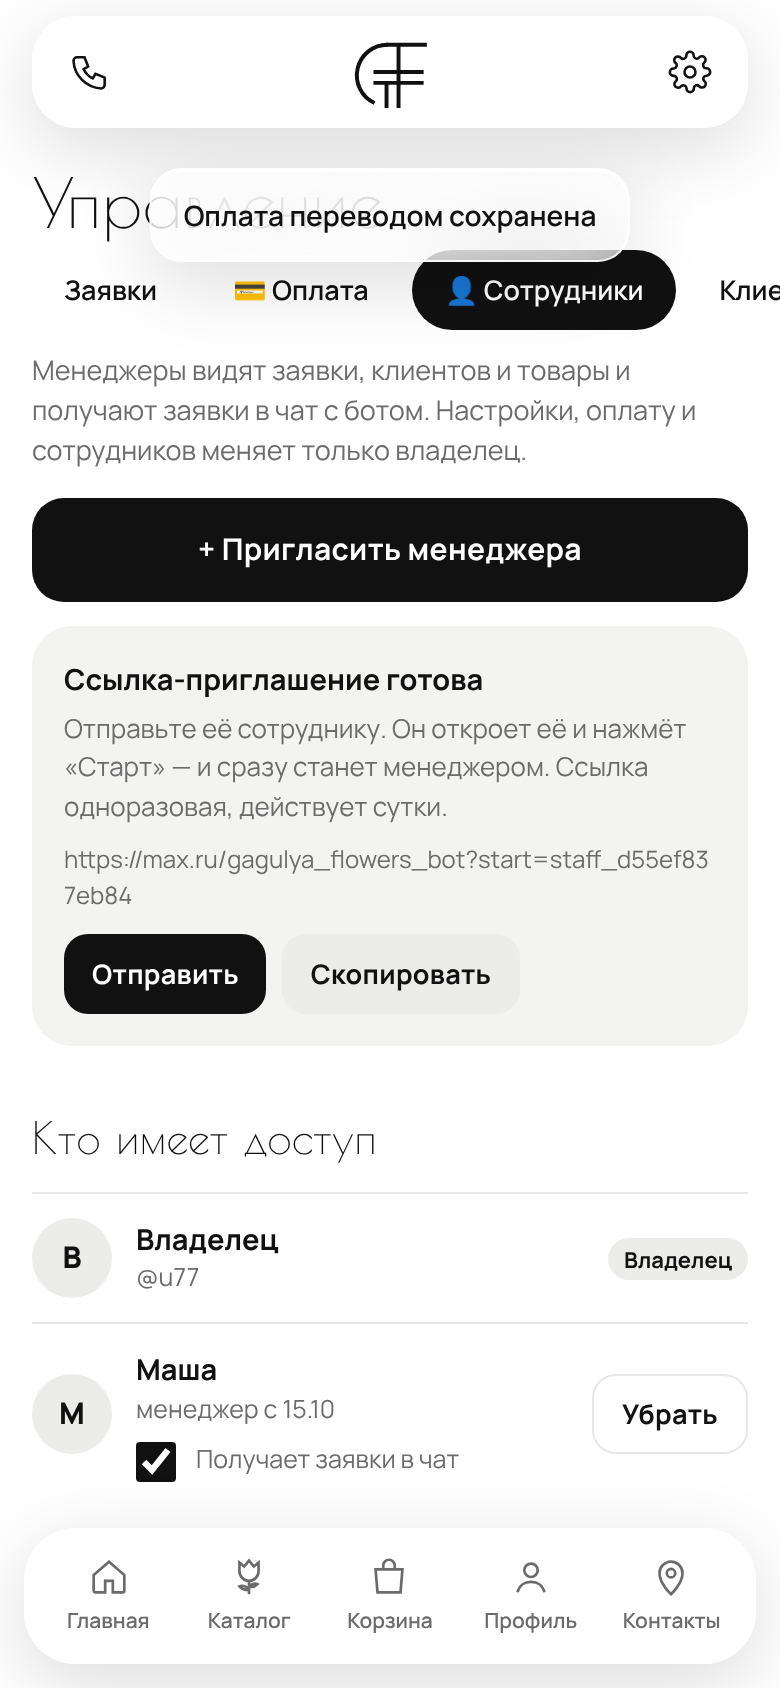
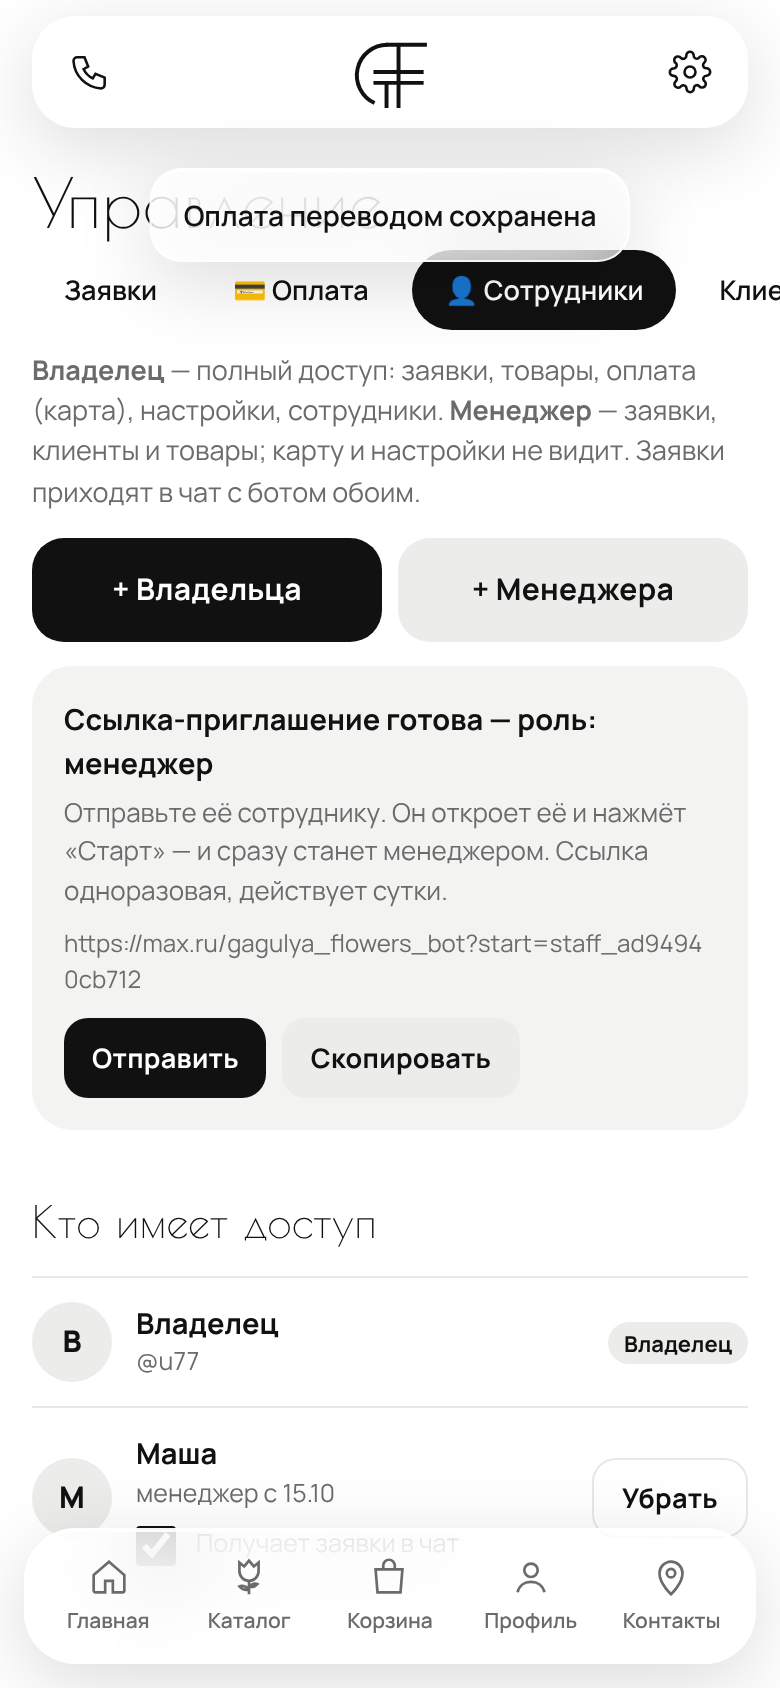
Сотрудники: приглашение с ролью владельца (полный доступ) или менеджера
Claude-Session: https://claude.ai/code/session_013HVBPZtSqSrvDRQkXTFUFM

diff --git a/server/index.js b/server/index.js
@@ -129,11 +129,11 @@ function createApp(opts = {}) {
     return null;
   }
   // Admins: ADMIN_IDS from .env plus the "owner" — the first person who sends /start when nobody is admin yet.
-  const ownerList = () => [...config.adminIds, ...((store.getCatalog().settings.ownerIds) || []).map(Number)];
+  const ownerList = () => [...config.adminIds, ...((store.getCatalog().settings.ownerIds) || []).map(Number), ...(store.getCatalog().settings.staff || []).filter((x) => x.role === "owner").map((x) => Number(x.id))];
   /* Staff: managers invited by the owner with a one-time link (settings.staff). They see orders, customers and the catalog;
      settings, payment details and the staff list stay with the owner. */
   const staffList = () => (store.getCatalog().settings.staff || []);
-  const adminList = () => [...ownerList(), ...staffList().map((x) => Number(x.id))];
+  const adminList = () => [...new Set([...ownerList(), ...staffList().map((x) => Number(x.id))])];
   const isAdmin = (u) => !!u && adminList().includes(Number(u.id));
   const isOwner = (u) => !!u && ownerList().includes(Number(u.id));
   /** A link that opens the bot CHAT with /start <param> (the bot itself must see the invite). */
@@ -151,12 +151,15 @@ function createApp(opts = {}) {
     S.invites = S.invites.filter((x) => x !== inv);
     const name = [from.first_name, from.last_name].filter(Boolean).join(" ") || (from.username ? "@" + from.username : "Сотрудник");
     if (!isAdmin(from)) {
-      S.staff = staffList().concat([{ id: Number(from.id), name, username: from.username || "", role: "manager", notify: true, addedAt: new Date().toISOString() }]);
+      S.staff = staffList().concat([{ id: Number(from.id), name, username: from.username || "", role: inv.role === "owner" ? "owner" : "manager", notify: true, addedAt: new Date().toISOString() }]);
     }
     store.setCatalog(store.getCatalog());
     const esc = (t) => String(t).replace(/[&<>]/g, (c) => ({ "&": "&amp;", "<": "&lt;", ">": "&gt;" }[c]));
-    for (const oid of ownerList()) sendUser(oid, `👤 <b>${esc(name)}</b> принял(а) приглашение и теперь менеджер: видит заявки и получает их в чат.`).catch(() => {});
-    return `\n\n✅ <b>Вы добавлены в сотрудники ${esc(S.brand || "")}.</b> Заявки будут приходить в этот чат, а в приложении появилась шестерёнка — там заявки, клиенты и товары.`;
+    const own = inv.role === "owner";
+    for (const oid of ownerList()) if (String(oid) !== String(from.id)) sendUser(oid, `👤 <b>${esc(name)}</b> принял(а) приглашение и теперь ${own ? "владелец (полный доступ)" : "менеджер: видит заявки и получает их в чат"}.`).catch(() => {});
+    return own
+      ? `\n\n✅ <b>Вы добавлены как владелец ${esc(S.brand || "")}.</b> Заявки будут приходить в этот чат, а в приложении появилась шестерёнка — там всё управление: заявки, товары, оплата, настройки, сотрудники.`
+      : `\n\n✅ <b>Вы добавлены в сотрудники ${esc(S.brand || "")}.</b> Заявки будут приходить в этот чат, а в приложении появилась шестерёнка — там заявки, клиенты и товары.`;
   }
   function claimOwner(from) {
     if (!from || !from.id || adminList().length) return "";
@@ -718,16 +721,17 @@ function createApp(opts = {}) {
   /* ---------- admin: staff ---------- */
   function staffView() {
     const S = store.getCatalog().settings, cust = custDb().list, now = Date.now();
-    const owners = ownerList().map((id) => { const c = cust[String(id)]; return { id, name: (c && c.name) || "Владелец", username: (c && c.username) || "", role: "owner" }; });
-    return { owners, staff: staffList(), invites: (S.invites || []).filter((x) => new Date(x.expiresAt).getTime() > now).map((x) => ({ code: x.code, expiresAt: x.expiresAt, link: chatLink("staff_" + x.code) })) };
+    const staffIds = new Set(staffList().map((x) => String(x.id)));
+    const owners = ownerList().filter((id) => !staffIds.has(String(id))).map((id) => { const c = cust[String(id)]; return { id, name: (c && c.name) || "Владелец", username: (c && c.username) || "", role: "owner" }; });
+    return { owners, staff: staffList(), invites: (S.invites || []).filter((x) => new Date(x.expiresAt).getTime() > now).map((x) => ({ code: x.code, role: x.role || "manager", expiresAt: x.expiresAt, link: chatLink("staff_" + x.code) })) };
   }
   on("GET", "/api/admin/staff", () => staffView(), { owner: true });
-  on("POST", "/api/admin/staff/invite", () => {
+  on("POST", "/api/admin/staff/invite", ({ body }) => {
     const S = store.getCatalog().settings;
     if (!chatLink("x")) throw httpError(400, "Бот ещё не подключён — пригласить не получится");
     const now = Date.now();
     S.invites = (S.invites || []).filter((x) => new Date(x.expiresAt).getTime() > now).slice(-9);
-    const inv = { code: crypto.randomBytes(6).toString("hex"), expiresAt: new Date(now + 864e5).toISOString() };
+    const inv = { code: crypto.randomBytes(6).toString("hex"), role: body && body.role === "owner" ? "owner" : "manager", expiresAt: new Date(now + 864e5).toISOString() };
     S.invites.push(inv); store.setCatalog(store.getCatalog());
     return Object.assign(staffView(), { link: chatLink("staff_" + inv.code) });
   }, { owner: true });
@@ -735,10 +739,12 @@ function createApp(opts = {}) {
     const x = staffList().find((m) => String(m.id) === params.id);
     if (!x) throw httpError(404, "Сотрудник не найден");
     if ("notify" in body) x.notify = !!body.notify;
+    if (body.role === "owner" || body.role === "manager") x.role = body.role;
     store.setCatalog(store.getCatalog());
     return staffView();
   }, { owner: true });
-  on("DELETE", "/api/admin/staff/:id", ({ params }) => {
+  on("DELETE", "/api/admin/staff/:id", ({ params, user }) => {
+    if (String(user.id) === params.id) throw httpError(400, "Себя убрать нельзя");
     const S = store.getCatalog().settings;
     if (!staffList().some((m) => String(m.id) === params.id)) throw httpError(404, "Сотрудник не найден");
     S.staff = staffList().filter((m) => String(m.id) !== params.id);

diff --git a/public/app.js b/public/app.js
@@ -945,18 +945,18 @@
   }
   function adminStaff(d) {
     const dt = (iso) => new Intl.DateTimeFormat("ru-RU", { timeZone: TZ, day: "2-digit", month: "2-digit", hour: "2-digit", minute: "2-digit" }).format(new Date(iso));
-    return `<p class="muted" style="font-size:13.5px;margin-top:0">Менеджеры видят заявки, клиентов и товары и получают заявки в чат с ботом. Настройки, оплату и сотрудников меняет только владелец.</p>
-      <button class="btn block" data-action="staffInvite">+ Пригласить менеджера</button>
-      ${state.admin.inviteLink ? `<div class="info-card" style="margin-top:12px"><p><b>Ссылка-приглашение готова</b></p>
+    return `<p class="muted" style="font-size:13.5px;margin-top:0"><b>Владелец</b> — полный доступ: заявки, товары, оплата (карта), настройки, сотрудники. <b>Менеджер</b> — заявки, клиенты и товары; карту и настройки не видит. Заявки приходят в чат с ботом обоим.</p>
+      <div style="display:grid;grid-template-columns:1fr 1fr;gap:8px"><button class="btn" data-action="staffInvite" data-role="owner">+ Владельца</button><button class="btn soft" data-action="staffInvite" data-role="manager">+ Менеджера</button></div>
+      ${state.admin.inviteLink ? `<div class="info-card" style="margin-top:12px"><p><b>Ссылка-приглашение готова${state.admin.inviteRole === "owner" ? " — роль: владелец" : " — роль: менеджер"}</b></p>
         <p class="muted" style="font-size:13px;margin-top:4px">Отправьте её сотруднику. Он откроет её и нажмёт «Старт» — и сразу станет менеджером. Ссылка одноразовая, действует сутки.</p>
         <div class="src-link" style="margin-top:8px">${esc(state.admin.inviteLink)}</div>
         <div style="display:flex;gap:8px;margin-top:10px"><button class="btn small" data-action="shareInvite">Отправить</button><button class="btn soft small" data-action="copyText" data-text="${esc(state.admin.inviteLink)}">Скопировать</button></div></div>` : ""}
       <h2 class="h2" style="font-size:22px">Кто имеет доступ</h2>
       ${d.owners.map((o) => `<div class="cust-row"><span class="av">${esc((o.name || "?").slice(0, 1))}</span><span class="mid"><b>${esc(o.name)}</b><small>${o.username ? "@" + esc(o.username) : "ID " + esc(String(o.id))}</small></span><span class="rt"><span class="seg-badge seg-regular">Владелец</span></span></div>`).join("")}
-      ${d.staff.map((m) => `<div class="cust-row"><span class="av">${esc((m.name || "?").slice(0, 1))}</span><span class="mid"><b>${esc(m.name)}</b><small>${m.username ? "@" + esc(m.username) + " · " : ""}менеджер с ${ddmm(m.addedAt)}</small>
+      ${d.staff.map((m) => `<div class="cust-row"><span class="av">${esc((m.name || "?").slice(0, 1))}</span><span class="mid"><b>${esc(m.name)}</b><small>${m.username ? "@" + esc(m.username) + " · " : ""}${m.role === "owner" ? "владелец" : "менеджер"} с ${ddmm(m.addedAt)}</small>
         <label class="check" style="margin:6px 0 0;font-size:12.5px"><input type="checkbox" data-action="staffNotify" data-id="${esc(String(m.id))}" ${m.notify !== false ? "checked" : ""}>Получает заявки в чат</label></span>
-        <span class="rt"><button class="btn ghost small" data-action="staffRemove" data-id="${esc(String(m.id))}" data-name="${esc(m.name)}">Убрать</button></span></div>`).join("") || `<p class="muted">Менеджеров пока нет.</p>`}
-      ${d.invites.length ? `<h2 class="h2" style="font-size:22px">Неиспользованные приглашения</h2>${d.invites.map((x) => `<div class="addon"><span class="t">Действует до ${dt(x.expiresAt)}</span><span class="p"><button class="btn ghost small" data-action="copyText" data-text="${esc(x.link)}">Скопировать</button> <button class="icon-x" data-action="inviteDel" data-code="${esc(x.code)}" aria-label="Отменить">×</button></span></div>`).join("")}` : ""}`;
+        <span class="rt">${m.role === "owner" ? `<span class="seg-badge seg-regular" style="display:block;margin-bottom:6px">Владелец</span>` : ""}<button class="btn ghost small" data-action="staffRemove" data-id="${esc(String(m.id))}" data-name="${esc(m.name)}">Убрать</button></span></div>`).join("") || `<p class="muted">Менеджеров пока нет.</p>`}
+      ${d.invites.length ? `<h2 class="h2" style="font-size:22px">Неиспользованные приглашения</h2>${d.invites.map((x) => `<div class="addon"><span class="t">${x.role === "owner" ? "Владелец" : "Менеджер"} · до ${dt(x.expiresAt)}</span><span class="p"><button class="btn ghost small" data-action="copyText" data-text="${esc(x.link)}">Скопировать</button> <button class="icon-x" data-action="inviteDel" data-code="${esc(x.code)}" aria-label="Отменить">×</button></span></div>`).join("")}` : ""}`;
   }
   function adminTransfer(d) {
     const T = d.transferResolved || {};
@@ -1098,8 +1098,8 @@
       return;
     }
     if (act === "staffInvite") {
-      const r = await adminCall("/api/admin/staff/invite", "POST", {}, null);
-      if (r) { state.admin.inviteLink = r.link; state.admin.data = r; state.admin.tab = "staff"; render(); }
+      const r = await adminCall("/api/admin/staff/invite", "POST", { role: ds.role }, null);
+      if (r) { state.admin.inviteLink = r.link; state.admin.inviteRole = ds.role; state.admin.data = r; state.admin.tab = "staff"; render(); }
       return;
     }
     if (act === "shareInvite") return shareLink(`Приглашение в управление ${state.catalog.settings.brand}: откройте ссылку и нажмите «Старт»`, state.admin.inviteLink);

diff --git a/test/gagulya.test.js b/test/gagulya.test.js
@@ -293,3 +293,20 @@ test("staff: owner invites a manager by a one-time link; manager sees orders, no
   assert.doesNotMatch(JSON.stringify((await req(url + "/api/catalog", "GET")).data), /invites|"staff"/);
   app.server.close();
 });
+
+test("staff: an invited co-owner gets full access (payment card, settings, staff)", async () => {
+  const { app, url } = await startApp();
+  app.bot.getUsername = () => "gagulya_flowers_bot";
+  const inv = await req(url + "/api/admin/staff/invite", "POST", { role: "owner" }, ADMIN);
+  const code = inv.data.link.split("start=")[1];
+  assert.match(app.onBotStart({ id: 77, first_name: "Гагуля" }, code).text, /владелец/);
+  const G = asUser(77);
+  const me = (await req(url + "/api/me", "GET", null, G)).data;
+  assert.deepEqual([me.isAdmin, me.isOwner], [true, true]);
+  assert.equal((await req(url + "/api/admin/settings", "PUT", { transfer: TRANSFER }, G)).status, 200);
+  assert.equal((await req(url + "/api/admin/staff", "GET", null, G)).status, 200);
+  assert.equal((await req(url + "/api/admin/staff/77", "DELETE", null, G)).status, 400); // can't remove yourself
+  assert.equal((await req(url + "/api/admin/staff/77", "DELETE", null, ADMIN)).status, 200);
+  assert.equal((await req(url + "/api/me", "GET", null, G)).data.isAdmin, false);
+  app.server.close();
+});

diff --git a/mock/e2e-gagulya.js b/mock/e2e-gagulya.js
@@ -127,7 +127,7 @@ const BRIDGE_STUB = `(function(){
 
   // staff: invite a manager
   await p2.goto(base + '/#/admin/staff'); await p2.waitForSelector('[data-action=staffInvite]');
-  await p2.click('[data-action=staffInvite]'); await p2.waitForSelector('.src-link');
+  await p2.click('[data-action=staffInvite][data-role=manager]'); await p2.waitForSelector('.src-link');
   const link = await p2.locator('.src-link').innerText();
   console.log('invite link:', link);
   console.log('accept:', app.onBotStart({ id: 55, first_name: 'Маша' }, link.split('start=')[1]).text.trim().split('\n')[0]);
